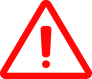
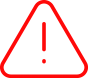
CICO-8600 implemnting alert for checkin checkbox not clicked case

diff --git a/guestweb/checkin/controllers/checkInReservationDetails.js b/guestweb/checkin/controllers/checkInReservationDetails.js
@@ -1,6 +1,6 @@
 
 (function() {
-	var checkInReservationDetails = function($scope,$rootScope,$location,checkinDetailsService,$state) {
+	var checkInReservationDetails = function($scope,$rootScope,$location,checkinDetailsService,$state,$modal) {
 
 	$scope.pageValid = false;
 	
@@ -15,7 +15,16 @@
 	//check if checkbox was already checked (before going to upgrades)
 	$scope.checked =  ($rootScope.ShowupgradedLabel) ? true:false;
 	$scope.reservationData = checkinDetailsService.getResponseData();
-	$rootScope.confirmationNumber = $scope.reservationData.confirm_no;			
+	$rootScope.confirmationNumber = $scope.reservationData.confirm_no;	
+
+	//setup options for modal
+	$scope.opts = {
+		backdrop: true,
+		backdropClick: true,
+		templateUrl: '/assets/checkin/partials/acceptChargesError.html',
+		controller: ModalInstanceCtrl
+	};
+
 	// check if checkbox is checked and  enable/disable checkin button 
 	$scope.$watch('checked',function(){
 		if($scope.checked)
@@ -26,27 +35,28 @@
 
 	$scope.checkInButtonClicked = function(){
 		if($scope.checked){
-	// if room upgrades are available
-	if($rootScope.upgradesAvailable){
-		$state.go('checkinUpgrade');
-	}
-	else{
-		$state.go('checkinKeys');
-	}			
-
-}
-}		
+			// if room upgrades are available
+			if($rootScope.upgradesAvailable){
+				$state.go('checkinUpgrade');
+			}
+			else{
+				$state.go('checkinKeys');
+			}
+		}
+		else{
+			$modal.open($scope.opts); // error modal popup
+		};
+	}		
 
 }
 
 };
 
 var dependencies = [
-'$scope','$rootScope','$location','checkinDetailsService','$state',
+'$scope','$rootScope','$location','checkinDetailsService','$state','$modal',
 checkInReservationDetails
 ];
 
 snt.controller('checkInReservationDetails', dependencies);
 })();
-
 

diff --git a/guestweb/css/less/snt.less b/guestweb/css/less/snt.less
@@ -779,12 +779,15 @@ border-color:  #000000 !important;
 }
 
 .btn-close{
-background: #787878 !important;
-color: #ffffff !important;
-border-color:  #bdbdbd !important;
-border-radius: 0px !important;
-width: 120px !important;
-font-size: 10px !important;
+  background: #787878 !important;
+  color: #ffffff !important;
+  border-color:  #bdbdbd !important;
+  border-radius: 0px !important;
+  width: 45% !important;
+  font-size: 10px !important;
+  padding:3% 0% !important;
+  border-bottom: 2px solid #787878;
+  margin-bottom: 10% !important;
 }
 
 
@@ -2203,4 +2206,11 @@ border-color:#fff;
 
 .light-gray-bg{
   background: #c7c7c7 !important;
+}
+
+.checkin-alert-msg{
+  padding:2% 10%;
+  line-height:24px;
+  font-size: 15px;
+  font-weight: lighter;
 }

diff --git a/guestweb/checkin/partials/acceptChargesError.html b/guestweb/checkin/partials/acceptChargesError.html
@@ -1,12 +1,7 @@
 <div class="modal-content modal-vertical-centered">
 	<div class="centeralign alert-box">
 		<img src="/assets/img/alert_icon.png"  alt="" width="43" height="43" class="alert-element"/>
-		<p >We could not find your reservation.</p>
-		<p> Please check for typos, or call</p>
-		<div class="alert-link">
-			<a href="tel: {{hotelPhone}}"class="alert-link-tag"><u>{{hotelPhone}}.</u></a>
-		</div>
-
+		<p class="checkin-alert-msg">In order to Check-in, please select the "Accept Charges" box.</p>
 		<button type="button" ng-click="closeDialog()" class="btn btn-close">CLOSE</button>
 	</div>
 </div>

diff --git a/guestweb/checkin/partials/Galleria/errorModal.html b/guestweb/checkin/partials/Galleria/errorModal.html
@@ -1,8 +1,6 @@
 <div class="modal-content modal-vertical-centered">
-
-
 	<div class="centeralign alert-box">
-		<img src="/assets/img/alert_icon.png"  alt="" width="43" height="40" class="alert-element"/>
+		<img src="/assets/img/alert_icon.png"  alt="" width="43" height="43" class="alert-element"/>
 		<p >We could not find your reservation.</p>
 		<p> Please check for typos, or call</p>
 		<div class="alert-link">

diff --git a/guestweb/checkin/partials/checkInReservationDetails.html b/guestweb/checkin/partials/checkInReservationDetails.html
@@ -99,7 +99,7 @@
 					<div class="verti-ruler"></div>
 
 					<div class="col-md-6 pad-lf-60">					
-						<button class="checkin-button" ng-disabled="!checkedApplyCharges" ng-click="checkInButtonClicked()">
+						<button class="checkin-button" ng-click="checkInButtonClicked()">
 							<span>Check in</span>
 							<img src="/assets/img/checkin_icon.png" width="60" height="60" alt=""/>
 						</button>

diff --git a/guestweb/checkin/partials/Galleria/checkInReservationDetails.html b/guestweb/checkin/partials/Galleria/checkInReservationDetails.html
@@ -99,7 +99,7 @@
 					<div class="verti-ruler" style="margin-top: 20px;"></div>
 
 					<div class="col-md-6 pad-lf-60 checkin-width">					
-						<button class=" checkin checkin-button" ng-disabled="!checkedApplyCharges" ng-click="checkInButtonClicked()">
+						<button class=" checkin checkin-button" ng-click="checkInButtonClicked()">
 							<span>Check in</span>
 						</button>
 					</div>

diff --git a/guestweb/checkin/controllers/checkInConfirmationViewController.js b/guestweb/checkin/controllers/checkInConfirmationViewController.js
@@ -91,10 +91,3 @@ snt.controller('checkInConfirmationViewController', dependencies);
 })();
 
 
-	// controller for the modal
-
-	var ModalInstanceCtrl = function ($scope, $modalInstance) {
-		$scope.closeDialog = function () {
-			$modalInstance.dismiss('cancel');
-		};
-	};

diff --git a/guestweb/checkin/controllers/modalController.js b/guestweb/checkin/controllers/modalController.js
@@ -1,0 +1,7 @@
+	// controller for the modal
+
+	var ModalInstanceCtrl = function ($scope, $modalInstance) {
+		$scope.closeDialog = function () {
+			$modalInstance.dismiss('cancel');
+		};
+	};
